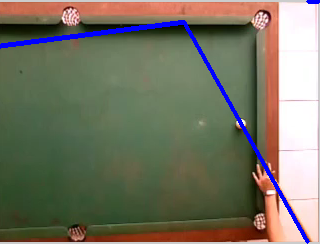
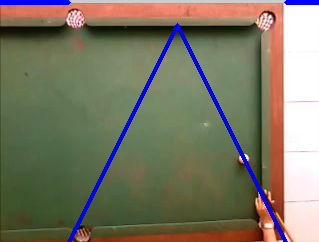
Caminho da bola pronto

diff --git a/Code.m b/Code.m
@@ -311,9 +311,8 @@ for x = vidWidth:-1:1;
     elseif(borda(y2(x),x)==1)
         %Espelho angulo de entrada igual 90-alfa, angulo dentro do triangulo =
         %alfa, angulo externo = 180-alfa;
-        m= tan(180-alfa);
-        ya = y2(x);
-        xa = x;
+        m= -m;
+        xa = xa-(2*(xa-x));
         
     end
 end
